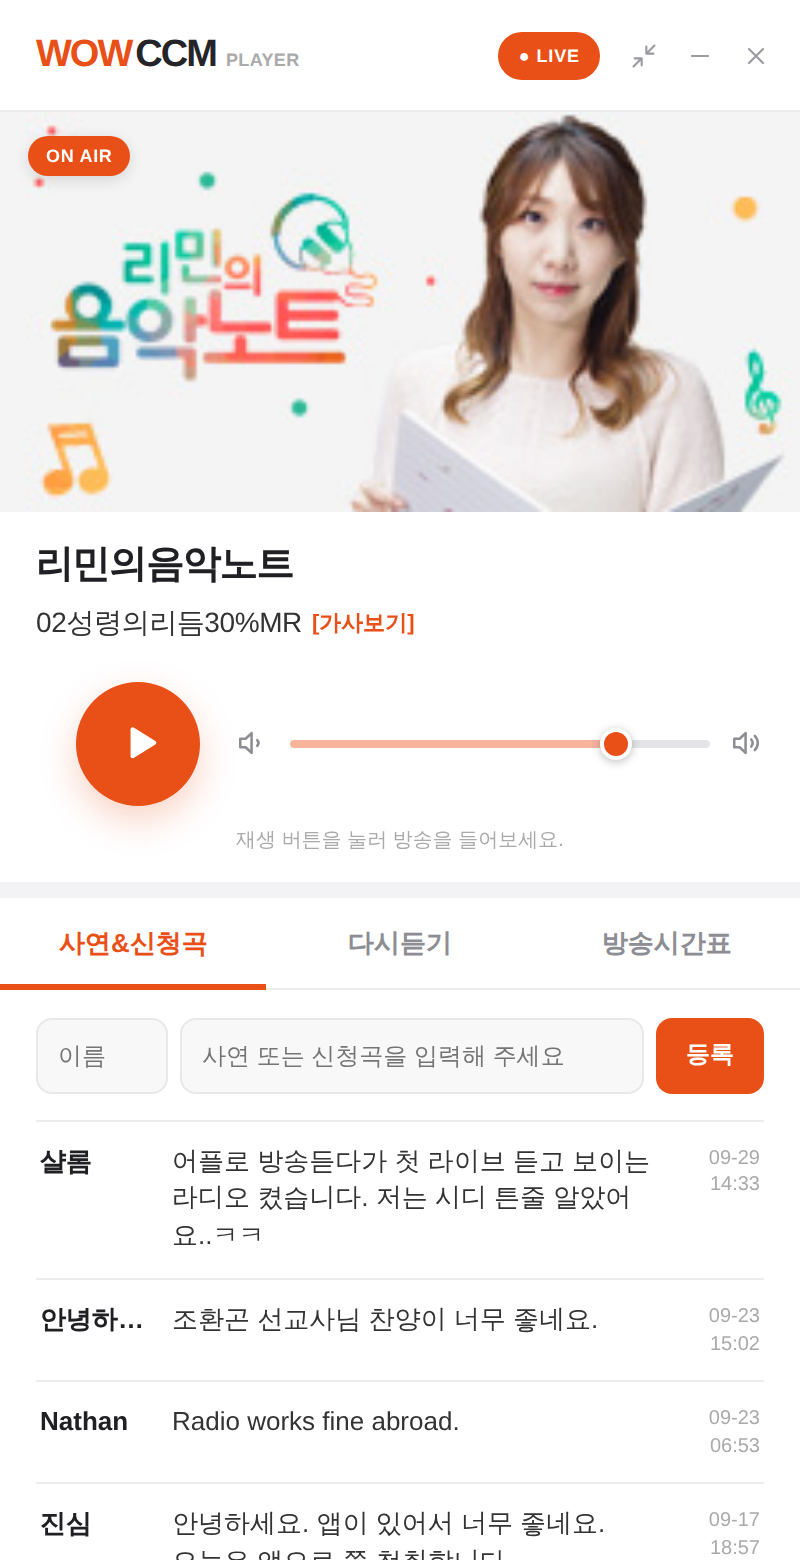
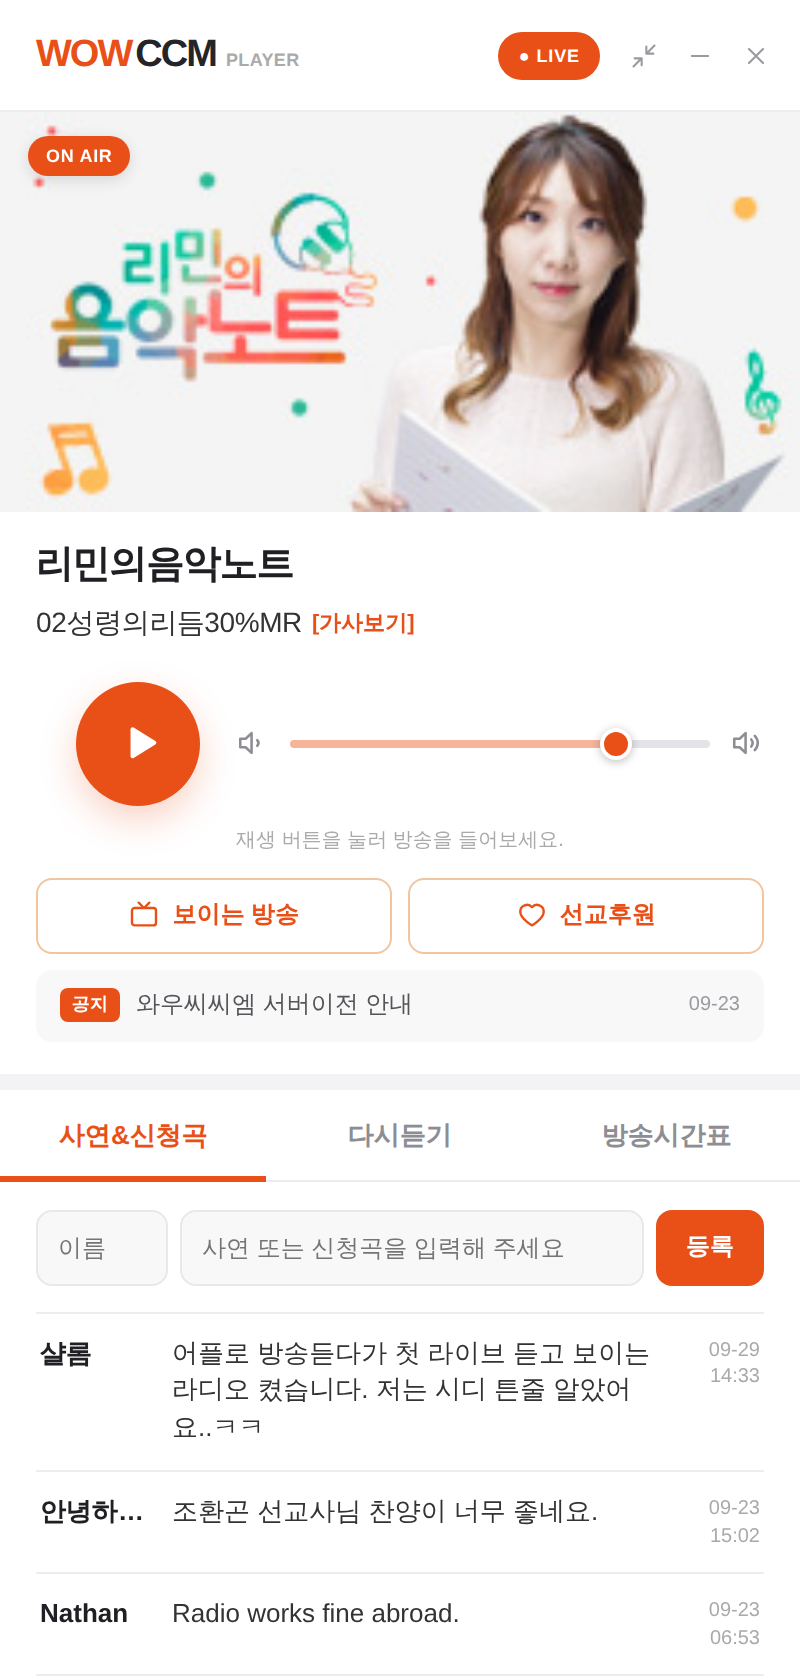
보이는 방송·선교후원 바로가기와 공지 추가
- 보이는 방송(유튜브 라이브), 선교후원(/mission/) 버튼
- 공지사항 게시판 RSS에서 최근 5개를 읽어 한 줄씩 순환 표시

Claude-Session: https://claude.ai/code/session_018gPLBYPafc4p3ZkZAQycUv

diff --git a/src/styles.css b/src/styles.css
@@ -83,7 +83,7 @@ input { font: inherit; color: inherit; }
 }
 
 /* 재생 + 볼륨 */
-.controls { padding: 16px 18px 14px; background: #fff; }
+.controls { padding: 16px 18px 12px; background: #fff; }
 .controls__row { display: flex; align-items: center; gap: 18px; padding-left: 20px; }
 .play {
   flex-shrink: 0; display: grid; place-items: center; border-radius: 50%;
@@ -110,6 +110,31 @@ input { font: inherit; color: inherit; }
 .volume--compact { flex: 0 0 auto; gap: 4px; }
 .volume--compact input[type="range"] { flex: none; width: 60px; }
 .controls__status { margin: 10px 0 0; text-align: center; font-size: 10px; color: #aaa; min-height: 14px; }
+
+/* 보이는 방송·선교후원·공지 */
+.extras { padding: 0 18px 16px; background: #fff; display: flex; flex-direction: column; gap: 8px; }
+.extras__links { display: grid; grid-template-columns: 1fr 1fr; gap: 8px; }
+.linkbtn {
+  display: flex; align-items: center; justify-content: center; gap: 6px; height: 38px;
+  border: 1px solid #f1c59f; border-radius: 8px; background: #fff; color: var(--accent);
+  font-size: 12px; font-weight: 700; transition: background 0.15s;
+}
+.linkbtn:hover { background: var(--accent-soft); }
+.notice {
+  display: flex; align-items: center; gap: 8px; height: 36px; padding: 0 12px; border-radius: 8px;
+  background: var(--field); text-align: left; overflow: hidden;
+}
+.notice:hover .notice__text { color: var(--text); }
+.notice__tag {
+  flex-shrink: 0; padding: 2px 6px; border-radius: 4px; background: var(--accent); color: #fff;
+  font-size: 9px; font-weight: 800;
+}
+.notice__text {
+  flex: 1; min-width: 0; font-size: 12px; color: var(--text-2); white-space: nowrap; overflow: hidden;
+  text-overflow: ellipsis; animation: notice-in 0.4s ease;
+}
+.notice__date { flex-shrink: 0; font-size: 10px; color: var(--muted); font-variant-numeric: tabular-nums; }
+@keyframes notice-in { from { transform: translateY(70%); opacity: 0; } }
 
 /* 탭 */
 .tabs {

diff --git a/src/App.tsx b/src/App.tsx
@@ -1,6 +1,6 @@
 import { useEffect, useState } from "react";
 import { REFRESH, STATION } from "./config";
-import { getDjImage, getMiniPage, getProgram, getRequests, getSong } from "./lib/api";
+import { getDjImage, getMiniPage, getNotices, getProgram, getRequests, getSong } from "./lib/api";
 import { usePlayer } from "./lib/usePlayer";
 import { usePolling } from "./lib/usePolling";
 import { useMediaSession } from "./lib/useMediaSession";
@@ -8,6 +8,7 @@ import { onTrayToggle, setMiniMode } from "./lib/tauri";
 import { Header } from "./components/Header";
 import { Hero } from "./components/Hero";
 import { PlayerControls } from "./components/PlayerControls";
+import { StationExtras } from "./components/StationExtras";
 import { RequestPanel } from "./components/RequestPanel";
 import { RecastPanel } from "./components/RecastPanel";
 import { SchedulePanel } from "./components/SchedulePanel";
@@ -27,6 +28,7 @@ export default function App() {
   const song = usePolling(getSong, REFRESH.song);
   const requests = usePolling(getRequests, REFRESH.requests);
   const page = usePolling(getMiniPage, REFRESH.miniPage);
+  const notices = usePolling(getNotices, REFRESH.notices);
 
   const [tab, setTab] = useState<Tab>("request");
   const [mini, setMini] = useState(false);
@@ -101,6 +103,7 @@ export default function App() {
       <div className="scroll">
         <Hero image={dj.data ?? null} onAir={onAir} program={programName} song={song.data ?? null} />
         <PlayerControls status={player.status} onToggle={player.toggle} message={player.message} {...vol} />
+        <StationExtras notices={notices.data} />
 
         <nav className="tabs" role="tablist">
           {TABS.map((t) => (

diff --git a/src/components/StationExtras.tsx b/src/components/StationExtras.tsx
@@ -1,0 +1,43 @@
+import { useEffect, useState } from "react";
+import { LINKS } from "../config";
+import type { Notice } from "../lib/api";
+import { openUrl } from "../lib/tauri";
+import { HeartIcon, TvIcon } from "./Icons";
+
+/** 보이는 방송·선교후원 바로가기와 공지 한 줄 */
+export function StationExtras({ notices }: { notices: Notice[] | null }) {
+  const [i, setI] = useState(0);
+  const list = notices ?? [];
+
+  useEffect(() => {
+    if (list.length < 2) return;
+    const id = window.setInterval(() => setI((n) => (n + 1) % list.length), 5000);
+    return () => window.clearInterval(id);
+  }, [list.length]);
+
+  const n = list.length ? list[i % list.length] : null;
+
+  return (
+    <section className="extras">
+      <div className="extras__links">
+        <button className="linkbtn" onClick={() => openUrl(LINKS.visibleRadio)}>
+          <TvIcon size={16} />
+          보이는 방송
+        </button>
+        <button className="linkbtn" onClick={() => openUrl(LINKS.support)}>
+          <HeartIcon size={16} />
+          선교후원
+        </button>
+      </div>
+      {n && (
+        <button className="notice" onClick={() => n.link && openUrl(n.link)} title={n.title}>
+          <span className="notice__tag">공지</span>
+          <span key={i} className="notice__text">
+            {n.title}
+          </span>
+          {n.date && <span className="notice__date">{n.date}</span>}
+        </button>
+      )}
+    </section>
+  );
+}

diff --git a/src/lib/api.test.ts b/src/lib/api.test.ts
@@ -1,6 +1,6 @@
 // @vitest-environment jsdom
 import { describe, expect, it } from "vitest";
-import { kstMinutes, markOnAir, parseMiniPage, parseRequests } from "./api";
+import { kstMinutes, markOnAir, parseMiniPage, parseNotices, parseRequests } from "./api";
 
 // 한국 시각 2026-09-29 14:30 = UTC 05:30
 const KST_1430 = new Date("2026-09-29T05:30:00Z");
@@ -71,6 +71,24 @@ describe("parseMiniPage", () => {
     expect(r.schedule).toEqual([
       { time: "00:00", title: "자동방송", sub: "", onair: false },
       { time: "14:00", title: "리민의 음악노트", sub: "with 옹기장이", onair: true },
+    ]);
+  });
+});
+
+describe("parseNotices", () => {
+  it("공지 제목·링크·날짜를 읽고 이중 이스케이프된 링크를 푼다", () => {
+    const xml = `<?xml version="1.0" encoding="utf-8" ?>
+      <rss version="2.0" xmlns:dc="http://purl.org/dc/elements/1.1/"><channel>
+      <item><title>와우씨씨엠 서버이전 안내</title>
+      <link>https://wowccm.net/bbs/board.php?bo_table=news&amp;amp;wr_id=3227</link>
+      <dc:date>2026-09-23T01:35:32+09:00</dc:date></item>
+      </channel></rss>`;
+    expect(parseNotices(xml)).toEqual([
+      {
+        title: "와우씨씨엠 서버이전 안내",
+        link: "https://wowccm.net/bbs/board.php?bo_table=news&wr_id=3227",
+        date: "09-23",
+      },
     ]);
   });
 });

diff --git a/src/lib/api.ts b/src/lib/api.ts
@@ -20,6 +20,12 @@ export interface RecastItem {
   audio: string;
 }
 
+export interface Notice {
+  title: string;
+  link: string;
+  date: string; // MM-DD
+}
+
 export interface ScheduleItem {
   time: string;
   title: string;
@@ -142,4 +148,22 @@ export function parseMiniPage(html: string, now = new Date()) {
 
 export async function getMiniPage() {
   return parseMiniPage(await wowGet(API.miniPage));
+}
+
+/** 공지사항 RSS. 링크의 &amp;가 두 번 이스케이프되어 오므로 한 번 더 풀어 준다. */
+export function parseNotices(xml: string, limit = 5): Notice[] {
+  const doc = new DOMParser().parseFromString(xml, "text/xml");
+  return [...doc.querySelectorAll("item")].slice(0, limit).map((it) => {
+    const date = clean(it.getElementsByTagName("dc:date")[0]?.textContent);
+    const m = /^\d{4}-(\d{2})-(\d{2})/.exec(date);
+    return {
+      title: clean(it.querySelector("title")?.textContent),
+      link: clean(it.querySelector("link")?.textContent).replace(/&amp;/g, "&"),
+      date: m ? `${m[1]}-${m[2]}` : "",
+    };
+  });
+}
+
+export async function getNotices(): Promise<Notice[]> {
+  return parseNotices(await wowGet(API.notices));
 }

diff --git a/src/config.ts b/src/config.ts
@@ -13,9 +13,12 @@ export const API = {
   dj: "/wowcast/dj5.php?check=1", // {"icq","image"}
   requests: `${MINI}?mini_request_list=1`, // 사연 목록 HTML 조각
   miniPage: MINI, // 다시듣기·편성표가 이 페이지 안에 들어 있다
+  notices: "/bbs/rss.php?bo_table=news", // 공지사항 게시판 RSS
 };
 
 export const LINKS = {
+  visibleRadio: "https://www.youtube.com/c/wowccm/live", // 보이는 방송 (유튜브 라이브)
+  support: "https://wowccm.net/mission/", // 선교후원
   lyrics: "http://wowccm.iptime.org:8080/GetSongText.htm",
   recastAll: "https://wowccm.net/bbs/board.php?bo_table=recast",
   scheduleAll: "https://wowccm.net/bbs/board.php?bo_table=schedule_list&mode=l",
@@ -27,4 +30,5 @@ export const REFRESH = {
   program: 30_000,
   requests: 10_000,
   miniPage: 10 * 60_000,
+  notices: 30 * 60_000,
 };

diff --git a/src/components/Icons.tsx b/src/components/Icons.tsx
@@ -71,3 +71,14 @@ export const PinIcon = ({ size }: P) => (
     <path d="M12 17v5M9 3h6l-1 6 4 4H6l4-4z" />
   </svg>
 );
+export const TvIcon = ({ size }: P) => (
+  <svg {...base(size)}>
+    <rect x="3" y="6" width="18" height="13" rx="2" />
+    <path d="m8 2 4 4 4-4" />
+  </svg>
+);
+export const HeartIcon = ({ size }: P) => (
+  <svg {...base(size)}>
+    <path d="M20.8 8.6a5 5 0 0 0-8.8-3.2 5 5 0 0 0-8.8 3.2c0 5.4 8.8 10.4 8.8 10.4s8.8-5 8.8-10.4z" />
+  </svg>
+);

diff --git a/src-tauri/src/lib.rs b/src-tauri/src/lib.rs
@@ -7,7 +7,7 @@ use tauri::{
     AppHandle, Emitter, LogicalSize, Manager, WindowEvent,
 };
 
-const FULL_SIZE: (f64, f64) = (400.0, 780.0);
+const FULL_SIZE: (f64, f64) = (400.0, 840.0);
 const MINI_SIZE: (f64, f64) = (380.0, 72.0);
 
 #[tauri::command]

diff --git a/README.md b/README.md
@@ -20,6 +20,8 @@
 - **사연&신청곡.** 목록 보기와 글 등록을 지원하고, 이름은 기억해 둡니다.
 - **다시듣기.** 누르면 생방송이 멈추고 다시듣기가 재생됩니다. 같은 회차를 다시 누르면 일시정지되고, 한 번 더 누르면 이어 듣습니다.
 - **방송시간표.** 지금 방송 중인 프로그램을 ON AIR로 표시합니다. 해외에서도 **한국 시각** 기준으로 판단합니다.
+- **보이는 방송**(유튜브 라이브)·**선교후원** 바로가기
+- **공지.** 공지사항 게시판의 최근 글 5개가 한 줄씩 넘어가며, 누르면 해당 글이 열립니다.
 - **미니 모드**와 "항상 위에 표시"
 - **트레이 상주.** 닫기(✕)를 눌러도 트레이/메뉴바에서 계속 재생됩니다.
 - 키보드 미디어 키와 스페이스바로 재생/정지
@@ -37,6 +39,7 @@
 | 사연 목록 | `/wowcast/wow_mini_test_v2.php?mini_request_list=1` | HTML 조각 |
 | 사연 등록 | `POST /wowcast/wow_mini_test_v2.php` | JSON |
 | 다시듣기·편성표 | `/wowcast/wow_mini_test_v2.php` 페이지 안의 `<template>` | HTML |
+| 공지 | `/bbs/rss.php?bo_table=news` | RSS |
 
 > 지금은 **시험용 페이지(`wow_mini_test_v2.php`)** 에 기대고 있습니다. 이 페이지의 이름이나 구조가 바뀌면 앱도 함께 고쳐야 합니다.
 > 플레이어 전용 JSON 주소(예: `/wowcast/player_api.php`)를 하나 만들어 두면 훨씬 안전합니다.
